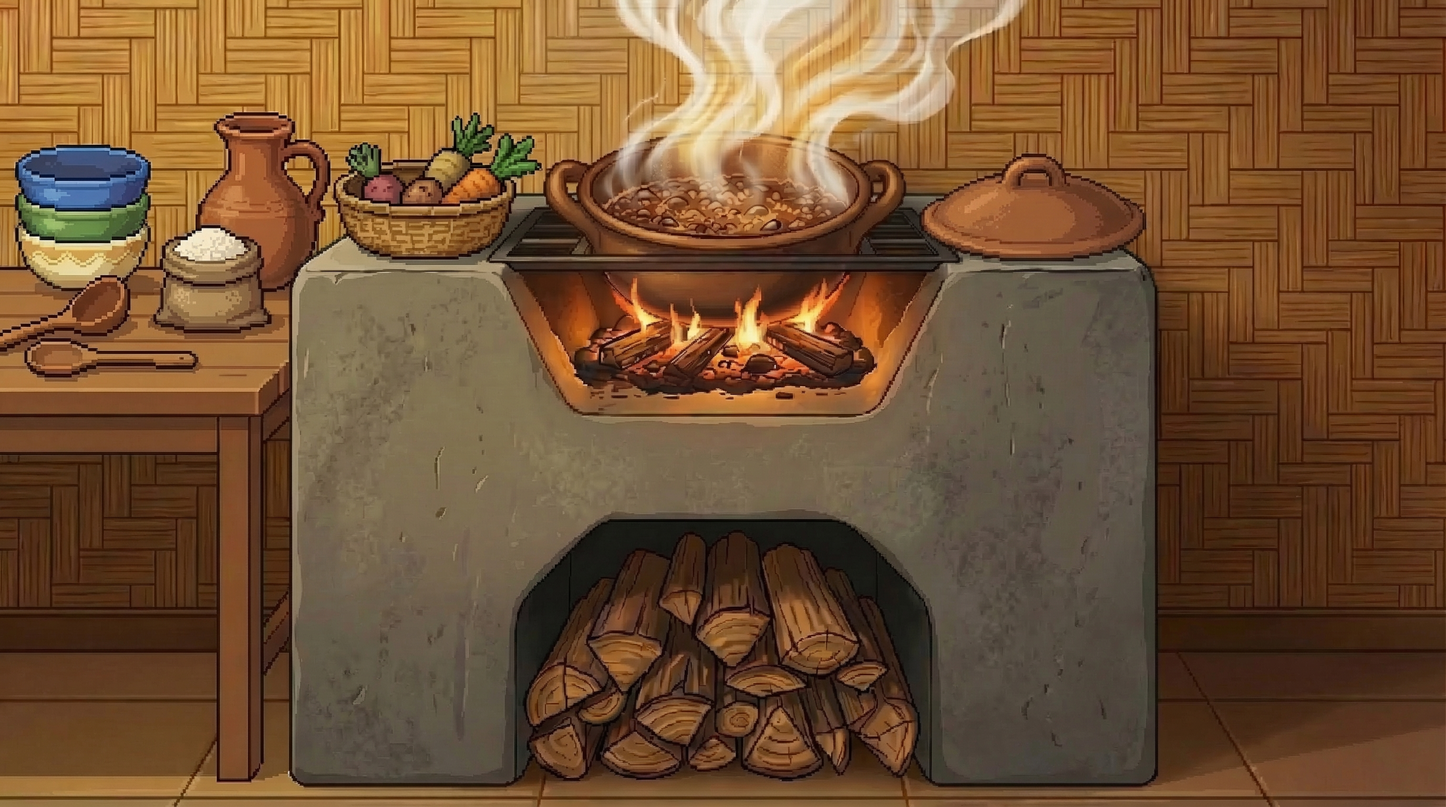
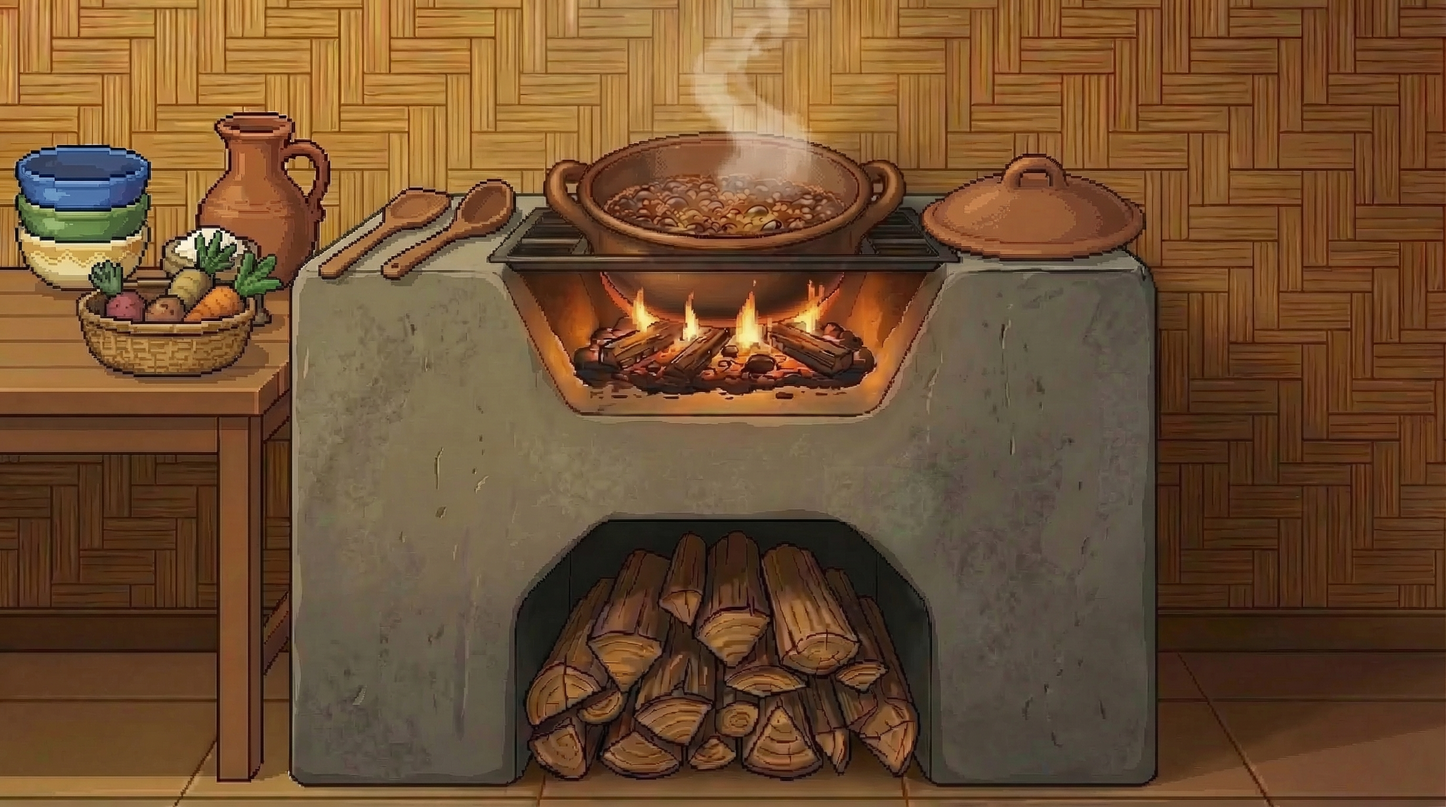
feat: cooking game improvements, new assests, font/UI fixes

diff --git a/Frontend/bisa-quest/src/game/components/minigames/CookingGame.jsx b/Frontend/bisa-quest/src/game/components/minigames/CookingGame.jsx
@@ -12,7 +12,7 @@ const TASKS = [
         successBisaya: "Nagdilaab na ang kalayo! Maayo!",
         successEnglish: "The fire is burning bright! Great!",
         draggableKey: "kahoy",
-        targetZone: { x: 50, y: 80, w: 20, h: 15 }, // Bottom of the stove
+        targetZone: { x: 50, y: 40, w: 30, h: 18 }, // Firebox opening
     },
     {
         id: "mix",
@@ -22,7 +22,7 @@ const TASKS = [
         successBisaya: "Humot na kaayo ang giluto!",
         successEnglish: "The food smells delicious!",
         draggableKey: "sandok",
-        targetZone: { x: 50, y: 55, w: 25, h: 20 }, // Inside/Above cauldron
+        targetZone: { x: 50, y: 18, w: 22, h: 16 }, // Inside/Above cauldron
         requiredMixCount: 5
     },
     {
@@ -33,10 +33,10 @@ const TASKS = [
         successBisaya: "Andam na ang tanan! Luto na!",
         successEnglish: "Everything is ready! It's cooking!",
         draggableItems: [
-            { id: "ing1", imageKey: "banana", label: "Saging", startX: 15, startY: 75 },
-            { id: "ing2", imageKey: "mango", label: "Mangga", startX: 85, startY: 75 },
+            { id: "ing1", imageKey: "carrot", label: "Karot", startX: 8, startY: 35 },
+            { id: "ing2", imageKey: "potato", label: "Patatas", startX: 15, startY: 35 },
         ],
-        targetZone: { x: 50, y: 55, w: 20, h: 15 }, // Inside cauldron
+        targetZone: { x: 50, y: 22, w: 20, h: 15 }, // Inside cauldron
     }
 ];
 
@@ -59,6 +59,7 @@ const CookingGame = ({ quest, npcName, npcImage, onComplete, onClose, item }) =>
     const [mixCount, setMixCount] = useState(0);
     const [isOverTarget, setIsOverTarget] = useState(false);
     const [showSuccessCard, setShowSuccessCard] = useState(false);
+    const [fireLit, setFireLit] = useState(false);
 
     const containerRef = useRef(null);
     const dragOffset = useRef({ x: 0, y: 0 });
@@ -71,8 +72,10 @@ const CookingGame = ({ quest, npcName, npcImage, onComplete, onClose, item }) =>
                 acc[it.id] = { x: it.startX, y: it.startY };
                 return acc;
             }, {}));
-        } else {
-            setPositions({ [task.id]: { x: 20, y: 70 } });
+        } else if (task.mechanic === "drag_to_heat") {
+            setPositions({ [task.id]: { x: 50, y: 78 } });
+         } else {
+            setPositions({ [task.id]: { x: 28, y: 28 } });
         }
     }, [task]);
 
@@ -154,6 +157,7 @@ const CookingGame = ({ quest, npcName, npcImage, onComplete, onClose, item }) =>
                         return next;
                     });
                 } else {
+                    if (task.mechanic === "drag_to_heat") setFireLit(true);
                     setTimeout(() => triggerSuccess(), 400);
                 }
             } else {
@@ -162,7 +166,7 @@ const CookingGame = ({ quest, npcName, npcImage, onComplete, onClose, item }) =>
                     const orig = task.draggableItems.find(i => i.id === id);
                     setPositions(p => ({ ...p, [id]: { x: orig.startX, y: orig.startY } }));
                 } else {
-                    setPositions({ [task.id]: { x: 20, y: 70 } });
+                    setPositions({ [task.id]: { x: task.mechanic === "drag_to_heat" ? 50 : 38, y: task.mechanic === "drag_to_heat" ? 78 : 28 } });
                 }
             }
         }
@@ -193,7 +197,7 @@ const CookingGame = ({ quest, npcName, npcImage, onComplete, onClose, item }) =>
                 </div>
 
                 <div className="iqm-scene-canvas" ref={containerRef}>
-                    <img src={AssetManifest.village.scenarios.kitchenStove} alt="Stove" className="iqm-scene-bg" draggable={false} />
+                    <img src={fireLit ? AssetManifest.village.scenarios.kitchenStoveFire : AssetManifest.village.scenarios.kitchenStove} alt="Stove" className="iqm-scene-bg" draggable={false} />
 
                     {/* Target Zone Debug/Hint */}
                     {stage === "playing" && (
@@ -222,7 +226,7 @@ const CookingGame = ({ quest, npcName, npcImage, onComplete, onClose, item }) =>
                                     left: `${positions[it.id]?.x}%`,
                                     top: `${positions[it.id]?.y}%`,
                                     transform: "translate(-50%, -50%)",
-                                    width: "80px", height: "80px",
+                                    width: "140px", height: "140px",
                                     zIndex: draggedId === it.id ? 20 : 10,
                                     opacity: placedItems.has(it.id) ? 0.7 : 1,
                                     cursor: placedItems.has(it.id) ? "default" : "grab"
@@ -244,7 +248,7 @@ const CookingGame = ({ quest, npcName, npcImage, onComplete, onClose, item }) =>
                                     left: `${positions[task.id]?.x}%`,
                                     top: `${positions[task.id]?.y}%`,
                                     transform: "translate(-50%, -50%)",
-                                    width: "100px", height: "100px",
+                                    width: "185px", height: "185px",
                                     zIndex: 20,
                                     cursor: "grab"
                                 }}
@@ -253,7 +257,7 @@ const CookingGame = ({ quest, npcName, npcImage, onComplete, onClose, item }) =>
                                 onPointerUp={(e) => handleUp(task.id, e)}
                             >
                                 <img src={ITEM_IMAGE_MAP[task.draggableKey]} alt={task.id} style={{ width: "100%", height: "100%", objectFit: "contain" }} draggable={false}/>
-                                {task.mechanic === "mix" && mixCount > 0 && <span style={{ position: "absolute", top: "-20px", left: "50%", transform: "translateX(-50%)", color: "white", textShadow: "1px 1px 2px black" }}>Stirring...</span>}
+                                {task.mechanic === "mix" && mixCount > 0 && <span style={{ position: "absolute", top: "30px", left: "50%", transform: "translateX(-50%)", color: "white", textShadow: "1px 1px 2px black", fontSize: "14px" }}>Stirring...</span>}
                             </div>
                         )
                     )}

diff --git a/Frontend/bisa-quest/src/services/AssetManifest.js b/Frontend/bisa-quest/src/services/AssetManifest.js
@@ -37,12 +37,14 @@ import plangganaWater from '../assets/items/planggana_water.png';
 import bagPng from '../assets/images/environments/scenario/bag.png';
 import kitchenSinkImg from "../assets/images/environments/scenario/kitchen_sink.jpeg";
 import kitchenStoveBg from "../assets/images/environments/scenario/kitchen_stove.png";
+import kitchenStoveFireBg from "../assets/images/environments/scenario/kitchen_stove_fire.png";
 import barrelEmptyBg from "../assets/images/environments/scenario/kitchen_water_barrel_empty.png";
 import barrelFillBg from "../assets/images/environments/scenario/kitchen_water_barrel_fill.png";
 import basketBg from "../assets/images/environments/scenario/basket.png";
 import cauldronImg from "../assets/items/couldron.jpg";
 import plateWashImg from "../assets/items/plate.jpg";
 import spoonImg from "../assets/items/spoon.jpg";
+import kahoyImg from "../assets/items/kahoy.png";
 
 // ── Forest assets ────────────────────────────────────────────────────────────
 import ForestBackground from "../assets/images/environments/Forest.png";
@@ -128,6 +130,7 @@ const AssetManifest = {
             bookshelf: bookshelfBg,
             kitchenSink: kitchenSinkImg,
             kitchenStove: kitchenStoveBg,
+            kitchenStoveFire: kitchenStoveFireBg,
             barrelEmpty: barrelEmptyBg,
             barrelFill: barrelFillBg,
             basket: basketBg,
@@ -138,6 +141,7 @@ const AssetManifest = {
             cauldron: cauldronImg,
             plateWashing: plateWashImg,
             spoon: spoonImg,
+            kahoy: kahoyImg,
         }
     },
 

diff --git a/Frontend/bisa-quest/src/game/components/ItemQuestModal.css b/Frontend/bisa-quest/src/game/components/ItemQuestModal.css
@@ -85,7 +85,7 @@
 
 .iqm-header-english {
     font-family: 'Pixelify Sans', sans-serif;
-    font-size: 28px;
+    font-size: 25px;
     color: #c8b99a;
     font-style: italic;
 }
@@ -383,11 +383,11 @@
     background: rgba(0, 0, 0, 0.35);
     border: 1.5px solid rgba(252, 215, 101, 0.3);
     border-radius: 14px;
-    padding: 14px 14px;
+    padding: 10px 14px;
 }
 
 .iqm-npc-img {
-    height: 110px;
+    height: 140px;
     object-fit: contain;
     flex-shrink: 0;
     filter: drop-shadow(0 4px 8px rgba(0, 0, 0, 0.5));
@@ -403,7 +403,7 @@
 
 .iqm-dialogue-speaker {
     font-family: 'Pixelify Sans', sans-serif;
-    font-size: 20px;
+    font-size: 22px;
     color: #fcd765;
     margin-bottom: 2px;
 }
@@ -416,7 +416,7 @@
 
 .iqm-dialogue-bisaya {
     font-family: 'Pixelify Sans', sans-serif;
-    font-size: 17px;
+    font-size: 18px;
     color: #fdf6e3;
     font-weight: bold;
     line-height: 1.4;
@@ -424,7 +424,7 @@
 
 .iqm-dialogue-english {
     font-family: 'Pixelify Sans', sans-serif;
-    font-size: 17px;
+    font-size: 18px;
     color: #c8b99a;
     font-style: italic;
     line-height: 1.4;
@@ -439,7 +439,7 @@
     border-radius: 50%;
     width: 45px;
     height: 45px;
-    font-size: 23px;
+    font-size: 25px;
     cursor: pointer;
     font-weight: bold;
     transition: transform 0.15s, box-shadow 0.15s;
@@ -656,7 +656,7 @@
 
 .iqm-scene-success-text {
     font-family: 'Pixelify Sans', sans-serif;
-    font-size: 27px;
+    font-size: 26px;
     color: #fcd765;
 }
 

diff --git a/Frontend/bisa-quest/src/game/dragDropConstants.js b/Frontend/bisa-quest/src/game/dragDropConstants.js
@@ -22,6 +22,11 @@ import electricFanImg from "../assets/items/electricfanRed.png";
 import bucketImg from "../assets/items/bucket.png";
 import lampImg from "../assets/items/lamp.png";
 import BookImg from "../assets/items/book.png";
+import KahoyImg from "../assets/items/kahoy.png";
+import DruminImg from "../assets/items/drumin.png";
+import DapoganImg from "../assets/items/dapogan.png";
+import CarrotImg from "../assets/items/carrot.png";
+import PotatoImg from "../assets/items/potato.png";
 
 //Item images — Kitchen
 import PotImg from "../assets/items/pot.png";
@@ -64,6 +69,10 @@ export const ITEM_IMAGE_MAP = {
   book: BookImg,
   libro: BookImg,
   bag: AssetManifest.village.items.bag,
+  kahoy: KahoyImg,
+  drumin: DruminImg,
+  firewood: KahoyImg,
+  dapogan: DapoganImg,
 
   // Kitchen
   pot: PotImg,
@@ -78,6 +87,8 @@ export const ITEM_IMAGE_MAP = {
   plato: PlateImg,
   cup: CupImg,
   tasa: CupImg,
+  carrot: CarrotImg,
+  potato: PotatoImg,
   // Bedroom
   almohada: PillowImg,
   bedsheet: BedsheetImg,

diff --git a/Frontend/bisa-quest/src/pages/Village/data/kitchenData.js b/Frontend/bisa-quest/src/pages/Village/data/kitchenData.js
@@ -35,6 +35,7 @@ export const KITCHEN_LABELS = [
     labelEnglish: "Water Barrel",
     descriptionBisaya: "Dako nga sudlanan sa tubig para panluto og panghugas.",
     descriptionEnglish: "Large barrel for storing water for cooking and washing.",
+    imageKey: "drumin",
     x: 68, y: 50, w: 9, h: 19,
   },
   {
